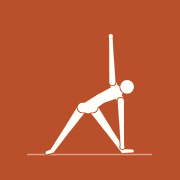
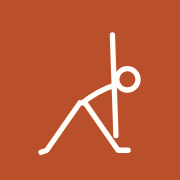
Redraw the asana figures as line stickmen
Replace the filled mannequin with a simple stick figure: open round
head, single-line curved spine, line limbs and tick feet. Shoulders and
hips now meet at a point, and the front-view poses are retuned to suit.
Scribble seeds follow the new outlines, which also improves matching.

Claude-Session: https://claude.ai/code/session_01SKrVk6CvWgj4RE7AshMiyY

Changed region(s): [[0.1389, 0.1667, 0.8333, 0.8611]]

diff --git a/js/asanas.js b/js/asanas.js
@@ -13,10 +13,10 @@ export const CATEGORIES = [
   ['custom', 'My asanas'],
 ];
 
-const UP_L = [80, 70];
-const UP_R = [100, 110];
-const CROSS_L = [[-170, 0.8], [-15, 0.8], [0, 0.3]];
-const CROSS_R = [[-10, 0.8], [-165, 0.8], [180, 0.3]];
+const UP_L = [128, 57];
+const UP_R = [52, 123];
+const CROSS_L = [[-162, 0.85], [-12, 0.95], [20, 0.35]];
+const CROSS_R = [[-18, 0.85], [-168, 0.95], [160, 0.35]];
 const WIDE_L = [-125, -125, [-160, 0.6]];
 const WIDE_R = [-55, -55, 0];
 const LUNGE_L = [-146, -146, [-160, 0.6]];
@@ -25,21 +25,21 @@ const LUNGE_R = [-8, -90, 0];
 const A = [
   // ---- standing ----
   ['tadasana', 'Tadasana', 'Mountain pose', 'standing', 0,
-    { v: 'f', lL: [-88, -90], lR: [-92, -90] }],
+    { v: 'f', lL: [-91, -90], lR: [-89, -90] }],
   ['urdhva_hastasana', 'Urdhva Hastasana', 'Arms overhead', 'standing', 0,
-    { v: 'f', lL: [-88, -90], lR: [-92, -90], aL: [97, 93], aR: [83, 87] }],
+    { v: 'f', lL: [-91, -90], lR: [-89, -90], aL: [120, 82], aR: [60, 98] }],
   ['urdhva_baddhanguliyasana', 'Urdhva Baddhanguliyasana', 'Interlocked fingers overhead', 'standing', 0,
-    { v: 'f', lL: [-88, -90], lR: [-92, -90], aL: UP_L, aR: UP_R }],
+    { v: 'f', lL: [-91, -90], lR: [-89, -90], aL: UP_L, aR: UP_R }],
   ['paschima_namaskarasana', 'Paschima Namaskarasana', 'Reverse prayer', 'standing', 0,
-    { v: 'f', lL: [-88, -90], lR: [-92, -90], aL: [[-108, 0.9], [22, 0.62]], aR: [[-72, 0.9], [158, 0.62]], z: 'lL lR aL aR t h' }],
+    { v: 'f', lL: [-91, -90], lR: [-89, -90], aL: [[-128, 0.8], [8, 0.6]], aR: [[-52, 0.8], [172, 0.6]] }],
   ['vrksasana', 'Vrksasana', 'Tree pose', 'standing', 1,
-    { v: 'f', lL: [-88, -90], lR: [-32, 172, [-90, 0.5]], aL: UP_L, aR: UP_R }],
+    { v: 'f', lL: [-90, -90], lR: [-35, [172, 0.84], [-90, 0.4]], aL: UP_L, aR: UP_R }],
   ['utkatasana', 'Utkatasana', 'Chair pose', 'standing', 0,
     { s: [72, 68], h: 68, a: [66, 66], l: [-35, -110, 0] }],
   ['utthita_trikonasana', 'Utthita Trikonasana', 'Triangle pose', 'standing', 1,
     { v: 'f', lL: WIDE_L, lR: WIDE_R, s: [34, 24], h: 24, aL: [92, 92], aR: [-88, -88] }],
   ['utthita_parsvakonasana', 'Utthita Parsvakonasana', 'Extended side angle', 'standing', 1,
-    { v: 'f', lL: LUNGE_L, lR: LUNGE_R, s: [48, 40], h: 40, aL: [40, 40], aR: { to: 'floor', dx: 0.35, fit: 1 } }],
+    { v: 'f', lL: LUNGE_L, lR: LUNGE_R, s: [48, 40], h: 44, aL: [36, 36], aR: { to: 'floor', dx: 0.4, fit: 1 } }],
   ['virabhadrasana_1', 'Virabhadrasana I', 'Warrior I', 'standing', 1,
     { s: [90, 94], h: 98, a: [92, 92], lR: [-8, -90, 0], lL: [-145, -145, 0] }],
   ['virabhadrasana_2', 'Virabhadrasana II', 'Warrior II', 'standing', 1,
@@ -47,29 +47,29 @@ const A = [
   ['virabhadrasana_3', 'Virabhadrasana III', 'Warrior III', 'standing', 1,
     { s: [0, 0], h: 8, a: [0, 0], lR: [-90, -90, 0], lL: [180, 180, [-90, 0.8]] }],
   ['ardha_chandrasana', 'Ardha Chandrasana', 'Half moon', 'standing', 1,
-    { v: 'f', s: [6, 2], h: 4, lR: [-90, -90, 0], lL: [178, 178, [-90, 0.6]], aL: [90, 90], aR: { to: 'floor', dx: 0.3, fit: 1 } }],
+    { v: 'f', s: [-8, -12], h: -6, lR: [-90, -90, 0], lL: [176, 176, [-90, 0.6]], aL: [90, 90], aR: { to: 'floor', dx: 0.2, fit: 1 } }],
   ['parivrtta_trikonasana', 'Parivrtta Trikonasana', 'Revolved triangle', 'standing', 1,
-    { v: 'f', lL: [-118, -118, [-160, 0.6]], lR: [-62, -62, 0], s: [14, 6], h: 8, sw: 0.55, aL: [92, 92], aR: { to: 'floor', dx: 0.35, fit: 1 } }],
+    { v: 'f', lL: [-118, -118, [-160, 0.6]], lR: [-62, -62, 0], s: [2, -8], h: 0, aL: [92, 92], aR: { to: 'floor', dx: 0.3, fit: 1 } }],
   ['parivrtta_parsvakonasana', 'Parivrtta Parsvakonasana', 'Revolved side angle', 'standing', 1,
     { s: [36, 30], h: 30, lR: [-8, -90, 0], lL: [-146, -146, [-60, 0.7]], aR: [30, 30], aL: { to: 'floor', dx: 0.2, fit: 1 } }],
   ['parsvottanasana', 'Parsvottanasana', 'Intense side stretch', 'standing', 1,
-    { s: [-52, -74], h: -82, lR: [-68, -68, 0], lL: [-112, -112, 0], a: [[128, 0.75], [-12, 0.45]], z: 'lL lR aL t h aR' }],
+    { s: [-52, -74], h: -82, lR: [-68, -68, 0], lL: [-112, -112, 0], a: { to: 'floor', dx: 0.5, fit: 1 } }],
   ['prasarita_padottanasana', 'Prasarita Padottanasana', 'Wide-legged forward bend', 'standing', 0,
-    { v: 'f', lL: WIDE_L, lR: [-55, -55, [-20, 0.6]], s: [[-90, 0.7], [-90, 0.7]], h: [-90, 0.95], sw: 0.75, aL: { to: 'floor', dx: 0.25, fit: 1 }, aR: { to: 'floor', dx: -0.25, fit: 1 }, z: 'lL lR t aL aR h' }],
+    { v: 'f', lL: WIDE_L, lR: [-55, -55, [-20, 0.6]], s: [[-90, 0.7], [-90, 0.7]], h: [-90, 0.95], aL: { to: 'floor', dx: 1.3, fit: 1 }, aR: { to: 'floor', dx: -1.3, fit: 1 } }],
   ['uttanasana', 'Uttanasana', 'Standing forward bend', 'standing', 0,
-    { s: [-62, -86], h: -96, a: { to: 'floor', dx: -0.5, fit: 1 }, z: 'lL lR t h aL aR' }],
+    { s: [-62, -86], h: -96, a: { to: 'floor', dx: -0.5, fit: 1 } }],
   ['ardha_uttanasana', 'Ardha Uttanasana', 'Half forward bend', 'standing', 0,
     { s: [-22, -6], h: 14, a: { to: 'floor', dx: 0.1, fit: 1 } }],
   ['padangusthasana', 'Padangusthasana', 'Big toe pose', 'standing', 0,
-    { s: [-54, -78], h: -64, a: [[-150, 0.6], [-58, 0.86]], z: 'lL lR t h aL aR' }],
+    { s: [-54, -78], h: -64, a: [[-150, 0.6], [-58, 0.86]] }],
   ['garudasana', 'Garudasana', 'Eagle pose', 'standing', 1,
-    { v: 'f', s: [90, 90], lL: [-78, -96], lR: [[-112, 0.95], [-70, 0.9], [-160, 0.4]], aL: [[-20, 0.55], [95, 0.9]], aR: [[-160, 0.55], [85, 0.9]] }],
+    { v: 'f', lL: [-80, -97], lR: [[-108, 0.95], [-72, 0.9], [-160, 0.4]], aL: [[-30, 0.55], [110, 0.6]], aR: [[-150, 0.55], [70, 0.6]] }],
   ['utthita_hasta_padangusthasana', 'Utthita Hasta Padangusthasana', 'Hand to big toe', 'standing', 1,
     { lL: [-90, -90, 0], lR: [36, 36, 120], aR: { to: 'toeR', b: -1 }, aL: [-110, -70] }],
   ['utthita_parsva_hasta_padangusthasana', 'Utthita Parsva Hasta Padangusthasana', 'Hand to big toe, leg to the side', 'standing', 1,
-    { v: 'f', lL: [-88, -90], lR: [18, 18, [90, 0.6]], aR: { to: 'ankleR', fit: 1 }, aL: [180, 180] }],
+    { v: 'f', lL: [-90, -90], lR: [20, 20, [90, 0.6]], aR: { to: 'ankleR', fit: 1 }, aL: [180, 180] }],
   ['parighasana', 'Parighasana', 'Gate pose', 'standing', 1,
-    { v: 'f', lL: [-90, [-90, 0.08], [-90, 0.1]], lR: [-31, -31, [60, 0.7]], s: [62, 36], h: 30, aL: [28, 14], aR: [-36, -30] }],
+    { v: 'f', lL: [-90, [-90, 0.06], [180, 0.5]], lR: [-31, -31, [60, 0.7]], s: [62, 36], h: 30, aL: [30, 10], aR: [-36, -30] }],
   ['malasana', 'Malasana', 'Garland squat', 'standing', 0,
     { s: [66, 60], h: 68, l: [30, -108, 0], a: [[-48, 0.9], [100, 0.55]] }],
   ['natarajasana', 'Natarajasana', 'Lord of the dance', 'standing', 1,
@@ -79,19 +79,19 @@ const A = [
   ['dandasana', 'Dandasana', 'Staff pose', 'seated', 0,
     { l: [0, 0, 90], a: { to: 'floor', dx: -0.3, fit: 1 } }],
   ['sukhasana', 'Sukhasana', 'Easy cross-legged', 'seated', 0,
-    { v: 'f', lL: CROSS_L, lR: CROSS_R, aL: { to: 'kneeL', fit: 1, off: [0.2, 0.3] }, aR: { to: 'kneeR', fit: 1, off: [-0.2, 0.3] } }],
+    { v: 'f', lL: CROSS_L, lR: CROSS_R, aL: { to: 'kneeL', fit: 1, off: [0.1, 0.2] }, aR: { to: 'kneeR', fit: 1, off: [-0.1, 0.2] } }],
   ['parvatasana', 'Parvatasana', 'Seated mountain', 'seated', 0,
     { v: 'f', lL: CROSS_L, lR: CROSS_R, aL: UP_L, aR: UP_R }],
   ['padmasana', 'Padmasana', 'Lotus pose', 'seated', 0,
-    { v: 'f', lL: [[-172, 0.85], [10, 0.85], [20, 0.3]], lR: [[-8, 0.85], [170, 0.85], [160, 0.3]], aL: { to: 'kneeL', fit: 1, off: [0.1, 0.3] }, aR: { to: 'kneeR', fit: 1, off: [-0.1, 0.3] } }],
+    { v: 'f', lL: [[-165, 0.9], [14, 1], [40, 0.4]], lR: [[-15, 0.9], [166, 1], [140, 0.4]], aL: { to: 'kneeL', fit: 1, off: [0.1, 0.2] }, aR: { to: 'kneeR', fit: 1, off: [-0.1, 0.2] } }],
   ['virasana', 'Virasana', 'Hero pose', 'seated', 0,
     { l: [-7, 180, 180], a: { to: 'kneeR', fit: 1, off: [-0.7, 0.4] } }],
   ['baddha_konasana', 'Baddha Konasana', 'Bound angle', 'seated', 0,
-    { v: 'f', lL: [[-176, 0.95], [-6, 0.9], [-90, 0.25]], lR: [[-4, 0.95], [-174, 0.9], [-90, 0.25]], aL: { to: 'ankleL', fit: 1, off: [0, 0.3] }, aR: { to: 'ankleR', fit: 1, off: [0, 0.3] } }],
+    { v: 'f', lL: [[-158, 0.95], [0, 0.93], [-90, 0.2]], lR: [[-22, 0.95], [180, 0.93], [-90, 0.2]], aL: { to: 'ankleL', b: -1, off: [0, 0.3] }, aR: { to: 'ankleR', b: 1, off: [0, 0.3] } }],
   ['upavistha_konasana', 'Upavistha Konasana', 'Seated wide angle', 'seated', 0,
-    { v: 'f', lL: [[-166, 0.85], [-166, 0.85], [90, 0.7]], lR: [[-14, 0.85], [-14, 0.85], [90, 0.7]], aL: { to: 'floor', dx: -0.8, fit: 1 }, aR: { to: 'floor', dx: 0.8, fit: 1 } }],
+    { v: 'f', lL: [[-170, 0.9], [-170, 0.9], [90, 0.6]], lR: [[-10, 0.9], [-10, 0.9], [90, 0.6]], aL: { to: 'floor', dx: -1.1, fit: 1 }, aR: { to: 'floor', dx: 1.1, fit: 1 } }],
   ['gomukhasana', 'Gomukhasana', 'Cow face pose', 'seated', 1,
-    { v: 'f', lL: [[-62, 0.35], [-12, 0.85], [0, 0.4]], lR: [[-118, 0.35], [-168, 0.85], [180, 0.4]], aL: [[78, 0.95], [-70, 0.7]], aR: [[-78, 0.95], [112, 0.6]], z: 'aL aR lL lR t h' }],
+    { v: 'f', lL: [[-70, 0.4], [-12, 0.85], [0, 0.4]], lR: [[-110, 0.4], [-168, 0.85], [180, 0.4]], aL: [[125, 1], [-60, 0.5]], aR: [[-60, 0.9], [130, 0.55]] }],
   ['paripurna_navasana', 'Paripurna Navasana', 'Full boat', 'seated', 0,
     { s: [122, 118], h: 112, l: [38, 38, 38], a: [2, 2] }],
   ['ardha_navasana', 'Ardha Navasana', 'Half boat', 'seated', 0,
@@ -107,21 +107,21 @@ const A = [
 
   // ---- forward bends ----
   ['janu_sirsasana', 'Janu Sirsasana', 'Head to knee', 'forward', 1,
-    { s: [38, 12], h: -4, lL: [0, 0, 90], lR: [[-28, 0.5], [-158, 0.55], [180, 0.4]], a: { to: 'toeL', fit: 1 }, z: 'lL aL t h lR aR' }],
+    { s: [38, 12], h: -4, lL: [0, 0, 90], lR: [[-28, 0.5], [-158, 0.55], [180, 0.4]], a: { to: 'toeL', fit: 1 } }],
   ['paschimottanasana', 'Paschimottanasana', 'Seated forward bend', 'forward', 0,
     { s: [30, 6], h: -8, l: [0, 0, 90], a: { to: 'toeR', fit: 1 } }],
   ['trianga_mukhaikapada_paschimottanasana', 'Trianga Mukhaikapada Paschimottanasana', 'Three-limbed forward bend', 'forward', 1,
     { s: [32, 8], h: -6, lL: [0, 0, 90], lR: [-7, 180, 180], a: { to: 'toeL', fit: 1 } }],
   ['marichyasana_1', 'Marichyasana I', 'Sage Marichi I', 'forward', 1,
-    { s: [44, 18], h: 0, lL: [0, 0, 90], lR: [62, -100, 0], a: { to: 'toeL', fit: 1 }, z: 'lL aL t h lR aR' }],
+    { s: [44, 18], h: 0, lL: [0, 0, 90], lR: [62, -100, 0], a: { to: 'toeL', fit: 1 } }],
 
   // ---- twists ----
   ['bharadvajasana_1', 'Bharadvajasana I', 'Sage Bharadvaja twist', 'twist', 1,
-    { v: 'f', lL: [[-40, 0.5], [-176, 0.95], [180, 0.4]], lR: [[-55, 0.5], [-170, 0.8], [180, 0.4]], aL: { to: 'kneeR', fit: 1, off: [0, 0.3] }, aR: { to: 'floor', dx: 0.8, fit: 1 } }],
+    { v: 'f', lL: [[-40, 0.5], [-176, 0.95], [180, 0.4]], lR: [[-55, 0.5], [-170, 0.8], [180, 0.4]], aL: { to: 'floor', dx: -1.5, fit: 1 }, aR: { to: 'kneeL', fit: 1, off: [0.3, 0.1] } }],
   ['marichyasana_3', 'Marichyasana III', 'Sage Marichi III twist', 'twist', 1,
-    { lL: [0, 0, 90], lR: [62, -100, 0], aL: [-28, 82], aR: { to: 'floor', dx: -1.3, b: 1 }, z: 'lL t h lR aL aR' }],
+    { lL: [0, 0, 90], lR: [62, -100, 0], aL: [-28, 82], aR: { to: 'floor', dx: -1.3, b: 1 } }],
   ['ardha_matsyendrasana_1', 'Ardha Matsyendrasana I', 'Half lord of the fishes', 'twist', 1,
-    { lL: [-4, 176, 180], lR: [66, -96, 0], aL: [-30, 84], aR: { to: 'floor', dx: -1.3, b: 1 }, z: 'lL t h lR aL aR' }],
+    { lL: [-4, 176, 180], lR: [66, -96, 0], aL: [-30, 84], aR: { to: 'floor', dx: -1.3, b: 1 } }],
   ['jathara_parivartanasana', 'Jathara Parivartanasana', 'Revolved abdomen', 'twist', 1,
     { v: 'f', top: 1, aL: [180, 180], aR: [0, 0], lL: [6, 4, [90, 0.5]], lR: [-10, -8, [90, 0.5]] }],
 
@@ -135,11 +135,11 @@ const A = [
   ['chaturanga_dandasana', 'Chaturanga Dandasana', 'Four-limbed staff', 'arm', 0,
     { s: [3, 3], h: 8, l: [-175, -175, [-90, 1]], a: [176, [-90, 0.68]] }],
   ['vasisthasana', 'Vasisthasana', 'Side plank', 'arm', 1,
-    { v: 'f', sw: 0.35, hw: 0.14, s: [28, 28], h: 28, lL: [-152, -152, [-90, 1]], lR: [-152, -152, [-90, 1]], aL: [90, 90], aR: [-90, -90] }],
+    { v: 'f', s: [25.5, 25.5], h: 25.5, lL: [-154.5, -154.5, [-90, 1]], lR: [-154.5, -154.5, [-90, 1]], aL: [90, 90], aR: [-90, -90] }],
   ['purvottanasana', 'Purvottanasana', 'Reverse plank', 'arm', 0,
     { s: [152, 152], h: 172, l: [-28, -28, -40], a: [-90, -90] }],
   ['bakasana', 'Bakasana', 'Crane pose', 'arm', 0,
-    { s: [10, -38], h: 4, l: [-52, 160, -170], a: [-122, -98] }],
+    { s: [-4, -26], h: 6, l: [-52, 160, -170], a: [-122, -98] }],
 
   // ---- backbends ----
   ['bhujangasana', 'Bhujangasana', 'Cobra', 'backbend', 0,
@@ -169,11 +169,11 @@ const A = [
   ['pincha_mayurasana', 'Pincha Mayurasana', 'Forearm balance', 'inversion', 0,
     { s: [-90, -90], h: [-100, 0.8], l: [90, 90, 90], a: [-90, 0] }],
   ['salamba_sirsasana', 'Salamba Sirsasana', 'Headstand', 'inversion', 0,
-    { s: [-90, -90], h: -90, l: [90, 90, 90], a: [[-48, 0.98], [180, 0.5]] }],
+    { s: [-90, -90], h: -90, l: [90, 90, 90], a: [[-72, 1], [180, 0.3]] }],
   ['urdhva_dandasana', 'Urdhva Dandasana', 'Upward staff in headstand', 'inversion', 0,
-    { s: [-90, -90], h: -90, l: [0, 0, 0], a: [[-48, 0.98], [180, 0.5]] }],
+    { s: [-90, -90], h: -90, l: [0, 0, 90], a: [[-72, 1], [180, 0.3]] }],
   ['eka_pada_sirsasana', 'Eka Pada Sirsasana', 'One leg down in headstand', 'inversion', 1,
-    { s: [-90, -90], h: -90, lL: [90, 90, 90], lR: [-52, -52, [-90, 0.6]], a: [[-48, 0.98], [180, 0.5]] }],
+    { s: [-90, -90], h: -90, lL: [90, 90, 90], lR: [-50, -50, [-90, 0.6]], a: [[-72, 1], [180, 0.3]] }],
   ['salamba_sarvangasana', 'Salamba Sarvangasana', 'Shoulderstand', 'inversion', 0,
     { s: [-90, -90], h: 180, l: [90, 90, 90], a: [0, [98, 0.72]] }],
   ['eka_pada_sarvangasana', 'Eka Pada Sarvangasana', 'One-legged shoulderstand', 'inversion', 1,
@@ -197,7 +197,7 @@ const A = [
   ['urdhva_prasarita_padasana', 'Urdhva Prasarita Padasana', 'Upward extended legs', 'supine', 0,
     { s: [180, 180], h: 180, l: [90, 90, 180], a: [178, 180] }],
   ['anantasana', 'Anantasana', 'Side-reclining leg lift', 'supine', 1,
-    { s: [180, 180], h: [146, 1], lL: [0, 0, 30], lR: [108, 108, 200], aR: { to: 'toeR', fit: 1 }, aL: [[180, 0.6], [86, 0.5]], z: 'lL t aL h lR aR' }],
+    { s: [180, 180], h: [146, 1], lL: [0, 0, 30], lR: [108, 108, 200], aR: { to: 'toeR', fit: 1 }, aL: [[180, 0.6], [86, 0.5]] }],
 ];
 
 export const ASANAS = A.map(([id, name, en, cat, sided, pose]) => ({ id, name, en, cat, sided: !!sided, pose }));

diff --git a/js/figure.js b/js/figure.js
@@ -4,12 +4,9 @@
 // Angles are degrees, 0 = right, 90 = up. Side-view figures face right.
 // A segment is either a number (angle) or [angle, lengthScale] for foreshortening.
 
-const LEN = { s1: 1.45, s2: 1.45, neck: 1.0, head: 0.6, ua: 1.95, fa: 2.05, th: 2.35, sh: 2.25, ft: 0.8 };
-const R = {
-  hip: 0.5, waist: 0.45, chest: 0.56, neck: 0.2,
-  th0: 0.42, th1: 0.29, sh1: 0.18, ft1: 0.14,
-  ua0: 0.27, ua1: 0.21, fa1: 0.15, hand: 0.19,
-};
+const LEN = { s1: 1.45, s2: 1.45, neck: 1.15, head: 0.85, ua: 1.95, fa: 2.05, th: 2.35, sh: 2.25, ft: 0.8 };
+const LINE = 0.26; // stroke width, in figure units
+const HALF = LINE / 2;
 
 const rad = (d) => (d * Math.PI) / 180;
 const vec = (deg, len = 1) => [Math.cos(rad(deg)) * len, Math.sin(rad(deg)) * len];
@@ -34,8 +31,8 @@ function ik(shoulder, target, l1, l2, bend) {
 // Solve a pose description into joint positions (y up, ground at y = 0).
 export function solve(p) {
   const front = p.v === 'f';
-  const sw = p.sw ?? (front ? 0.9 : 0);
-  const hw = p.hw ?? (front ? 0.45 : 0);
+  const sw = p.sw ?? 0;
+  const hw = p.hw ?? (front ? 0.2 : 0);
   const J = {};
   const s = p.s ?? [90, 90];
   const [a1, k1] = seg(s[0]);
@@ -62,7 +59,7 @@ export function solve(p) {
     J['toe' + side] = add(J['ankle' + side], vec(fa, LEN.ft * fk));
   }
 
-  const armSpec = (side) => p['a' + side] ?? p.a ?? (front ? (side === 'L' ? [-97, -94] : [-83, -86]) : [-90, -90]);
+  const armSpec = (side) => p['a' + side] ?? p.a ?? (front ? (side === 'L' ? [-107, -100] : [-73, -80]) : [-90, -90]);
   const deferred = [];
   for (const side of ['L', 'R']) {
     const spec = armSpec(side);
@@ -76,12 +73,7 @@ export function solve(p) {
 
   const lowest = () => {
     let m = Infinity;
-    const chk = (pt2, r) => { if (pt2) m = Math.min(m, pt2[1] - r); };
-    chk(J.P, R.hip); chk(J.M, R.waist); chk(J.C, R.chest); chk(J.H, LEN.head);
-    for (const sd of ['L', 'R']) {
-      chk(J['knee' + sd], R.th1); chk(J['ankle' + sd], R.sh1); chk(J['toe' + sd], R.ft1);
-      chk(J['elbow' + sd], R.ua1); chk(J['hand' + sd], R.hand);
-    }
+    for (const [key, pt2] of Object.entries(J)) m = Math.min(m, pt2[1] - (key === 'H' ? LEN.head : HALF));
     return m;
   };
 
@@ -90,7 +82,7 @@ export function solve(p) {
     for (const [side, spec] of deferred) {
       const sh = J['sh' + side];
       let target;
-      if (spec.to === 'floor') target = [sh[0] + (spec.dx ?? 0), ground + R.hand];
+      if (spec.to === 'floor') target = [sh[0] + (spec.dx ?? 0), ground + HALF];
       else target = add(J[spec.to], spec.off ?? [0, 0]);
       let k = spec.k ?? 1;
       if (spec.fit) {
@@ -110,31 +102,10 @@ export function solve(p) {
 
 // --- drawing ---------------------------------------------------------------
 
-function capsule(a, b, r1, r2) {
-  // a, b in screen coords (y down)
-  const dx = b[0] - a[0];
-  const dy = b[1] - a[1];
-  const d = Math.hypot(dx, dy);
-  const f = (n) => n.toFixed(2);
-  if (d < 1e-3) {
-    const r = Math.max(r1, r2);
-    return `M${f(a[0] - r)} ${f(a[1])}a${f(r)} ${f(r)} 0 1 0 ${f(2 * r)} 0a${f(r)} ${f(r)} 0 1 0 ${f(-2 * r)} 0Z`;
-  }
-  const nx = -dy / d;
-  const ny = dx / d;
-  return (
-    `M${f(a[0] + nx * r1)} ${f(a[1] + ny * r1)}` +
-    `L${f(b[0] + nx * r2)} ${f(b[1] + ny * r2)}` +
-    `A${f(r2)} ${f(r2)} 0 0 0 ${f(b[0] - nx * r2)} ${f(b[1] - ny * r2)}` +
-    `L${f(a[0] - nx * r1)} ${f(a[1] - ny * r1)}` +
-    `A${f(r1)} ${f(r1)} 0 0 0 ${f(a[0] + nx * r1)} ${f(a[1] + ny * r1)}Z`
-  );
-}
-
 function bounds(J) {
   let x0 = Infinity, x1 = -Infinity, y1 = -Infinity;
   for (const [k, pt] of Object.entries(J)) {
-    const r = k === 'H' ? LEN.head : k === 'P' || k === 'M' || k === 'C' ? 0.56 : 0.3;
+    const r = k === 'H' ? LEN.head + HALF : HALF;
     x0 = Math.min(x0, pt[0] - r);
     x1 = Math.max(x1, pt[0] + r);
     y1 = Math.max(y1, pt[1] + r);
@@ -142,54 +113,40 @@ function bounds(J) {
   return { x0, x1, y1 };
 }
 
-// Returns an SVG string for a pose. opts.mirror flips left/right.
+// Returns an SVG string for a pose: a line stick figure with an open round
+// head and tick feet. opts.mirror flips left/right.
 export function poseSVG(p, opts = {}) {
   const J = solve(p);
-  const front = p.v === 'f';
   const { x0, x1, y1 } = bounds(J);
   const w = x1 - x0;
   const hgt = y1;
-  const size = Math.max(w, hgt, 6.2) + 1.0;
+  const size = Math.max(w, hgt, 6.6) + 1.0;
   const ox = (size - w) / 2 - x0;
   const oy = (size + hgt) / 2; // screen y of the ground
   const S = (pt) => [pt[0] + ox, oy - pt[1]];
+  const f = (n) => n.toFixed(2);
+  const line = (...pts) => pts.map((pt, i) => { const q = S(pt); return `${i ? 'L' : 'M'}${f(q[0])} ${f(q[1])}`; }).join('');
 
-  const limbLeg = (sd) =>
-    capsule(S(J['hip' + sd]), S(J['knee' + sd]), R.th0, R.th1) +
-    capsule(S(J['knee' + sd]), S(J['ankle' + sd]), R.th1 - 0.01, R.sh1) +
-    capsule(S(J['ankle' + sd]), S(J['toe' + sd]), R.sh1 - 0.01, R.ft1);
-  const limbArm = (sd) =>
-    capsule(S(J['sh' + sd]), S(J['elbow' + sd]), R.ua0, R.ua1) +
-    capsule(S(J['elbow' + sd]), S(J['hand' + sd]), R.ua1 - 0.01, R.fa1) +
-    capsule(S(J['hand' + sd]), S(J['hand' + sd]), R.hand, R.hand);
-  const torso = () => {
-    let d = capsule(S(J.P), S(J.M), R.hip, R.waist) + capsule(S(J.M), S(J.C), R.waist, R.chest);
-    if (front) d += capsule(S(J.shL), S(J.shR), 0.3, 0.3) + capsule(S(J.hipL), S(J.hipR), 0.42, 0.42);
-    return d;
-  };
-  const head = () => capsule(S(J.H), S(J.H), LEN.head, LEN.head);
-
-  const order = (p.z ?? (front ? 'lL lR t h aL aR' : 'aL lL t h lR aR')).split(' ');
-  const tone = (key) => {
-    if (key === 't' || key === 'h') return 'fb';
-    if (front) return 'fn';
-    return key.endsWith('L') ? 'ff' : 'fn';
-  };
-  let out = '';
-  for (const key of order) {
-    const d = key === 't' ? torso() : key === 'h' ? head() : key[0] === 'l' ? limbLeg(key[1]) : limbArm(key[1]);
-    out += `<path class="fg" d="${d}"/><path class="${tone(key)}" d="${d}"/>`;
+  // spine: a smooth curve from the pelvis through the waist to the neck
+  const P = S(J.P), M = S(J.M), C = S(J.C);
+  const ctrl = [2 * M[0] - (P[0] + C[0]) / 2, 2 * M[1] - (P[1] + C[1]) / 2];
+  let d = `M${f(P[0])} ${f(P[1])}Q${f(ctrl[0])} ${f(ctrl[1])} ${f(C[0])} ${f(C[1])}`;
+  d += line(J.C, J.H) + line(J.hipL, J.hipR);
+  for (const sd of ['L', 'R']) {
+    d += line(J['hip' + sd], J['knee' + sd], J['ankle' + sd], J['toe' + sd]);
+    d += line(J['sh' + sd], J['elbow' + sd], J['hand' + sd]);
   }
+  const H = S(J.H);
   let props = '';
-  if (!p.top) props += `<line class="fl" x1="0.4" y1="${oy.toFixed(2)}" x2="${(size - 0.4).toFixed(2)}" y2="${oy.toFixed(2)}"/>`;
   for (const pr of p.props ?? []) {
     if (pr[0] === 'wall') {
       const x = S(add(J[pr[1]], [pr[2], 0]))[0];
-      props += `<line class="fw" x1="${x.toFixed(2)}" y1="0.3" x2="${x.toFixed(2)}" y2="${oy.toFixed(2)}"/>`;
+      props += `<line class="fw" x1="${f(x)}" y1="0.4" x2="${f(x)}" y2="${f(oy)}"/>`;
     }
   }
-  const flip = opts.mirror ? ` transform="translate(${size.toFixed(2)} 0) scale(-1 1)"` : '';
-  return `<svg class="fig" viewBox="0 0 ${size.toFixed(2)} ${size.toFixed(2)}" aria-hidden="true"><g${flip}>${props}${out}</g></svg>`;
+  const flip = opts.mirror ? ` transform="translate(${f(size)} 0) scale(-1 1)"` : '';
+  return `<svg class="fig" viewBox="0 0 ${f(size)} ${f(size)}" aria-hidden="true"><g${flip} stroke-width="${LINE}">${props}` +
+    `<path class="fk" d="${d}"/><circle class="fh" cx="${f(H[0])}" cy="${f(H[1])}" r="${LEN.head}"/></g></svg>`;
 }
 
 // Plain skeleton as strokes (screen coords, y down) for seeding the recognizer.

diff --git a/css/app.css b/css/app.css
@@ -62,12 +62,9 @@ h1, h2, h3 { font-family: var(--serif); font-weight: 600; margin: 0; letter-spac
 
 /* figures */
 .fig { display: block; width: 100%; height: 100%; }
-.fg { fill: var(--gap); stroke: var(--gap); stroke-width: 0.15; }
-.fb { fill: var(--fig-body); }
-.fn { fill: var(--fig-near); }
-.ff { fill: var(--fig-far); }
-.fl { stroke: var(--floor); stroke-width: 0.09; stroke-linecap: round; }
-.fw { stroke: var(--floor); stroke-width: 0.16; stroke-linecap: round; }
+.fk { fill: none; stroke: var(--fig-body); stroke-linecap: round; stroke-linejoin: round; }
+.fh { fill: var(--gap); stroke: var(--fig-body); }
+.fw { stroke: var(--floor); stroke-width: 0.2; stroke-linecap: round; }
 .fs { fill: none; stroke: var(--fig-body); stroke-linecap: round; stroke-linejoin: round; }
 
 /* icons & buttons */
@@ -130,7 +127,7 @@ h1, h2, h3 { font-family: var(--serif); font-weight: 600; margin: 0; letter-spac
   height: 54px; padding: 0 20px 0 16px; border-radius: 27px; background: var(--accent); color: var(--accent-ink);
   display: flex; align-items: center; gap: 8px; font-weight: 700; box-shadow: 0 6px 18px rgba(0,0,0,.22);
 }
-.empty { text-align: center; color: var(--muted); padding: 48px 24px; }
+.empty { --gap: var(--bg); text-align: center; color: var(--muted); padding: 48px 24px; }
 .empty .fig { width: 150px; height: 150px; margin: 0 auto 8px; opacity: 0.8; }
 .empty h3 { color: var(--ink); font-size: 21px; margin-bottom: 6px; }
 

diff --git a/js/app.js b/js/app.js
@@ -4,7 +4,7 @@ import { toCloud, mirrorCloud, distance, recognize } from './recognizer.js';
 import { createPad } from './pad.js';
 import * as store from './store.js';
 
-const VERSION = '1.0.0';
+const VERSION = '1.1.0';
 const app = document.getElementById('app');
 const layer = document.getElementById('layer');
 

diff --git a/sw.js b/sw.js
@@ -1,6 +1,6 @@
 // Offline support: every file the app needs is stored on the device at
 // install time. Bump VERSION whenever the app's files change.
-const VERSION = 'ypj-1.0.0';
+const VERSION = 'ypj-1.1.0';
 const FILES = [
   './',
   'index.html',

diff --git a/README.md b/README.md
@@ -4,7 +4,7 @@ Scribble a stick figure, pick the asana it matches, and string asanas into a
 sequence you can replay for home practice. It works like the handwriting
 keyboard for Japanese: draw in the box, tap a candidate, and it joins the line.
 
-- 80 built-in Iyengar asanas, each with a drawn figure and its Sanskrit name
+- 80 built-in Iyengar asanas, each with a stick-figure drawing and its Sanskrit name
 - Teach the app your own scribble for any asana; add your own asanas
 - Sequences: new, rename, duplicate, delete, reorder, sorted by name or last edit
 - Three ways to replay: whole sequence on one page with arrows, step by step,
